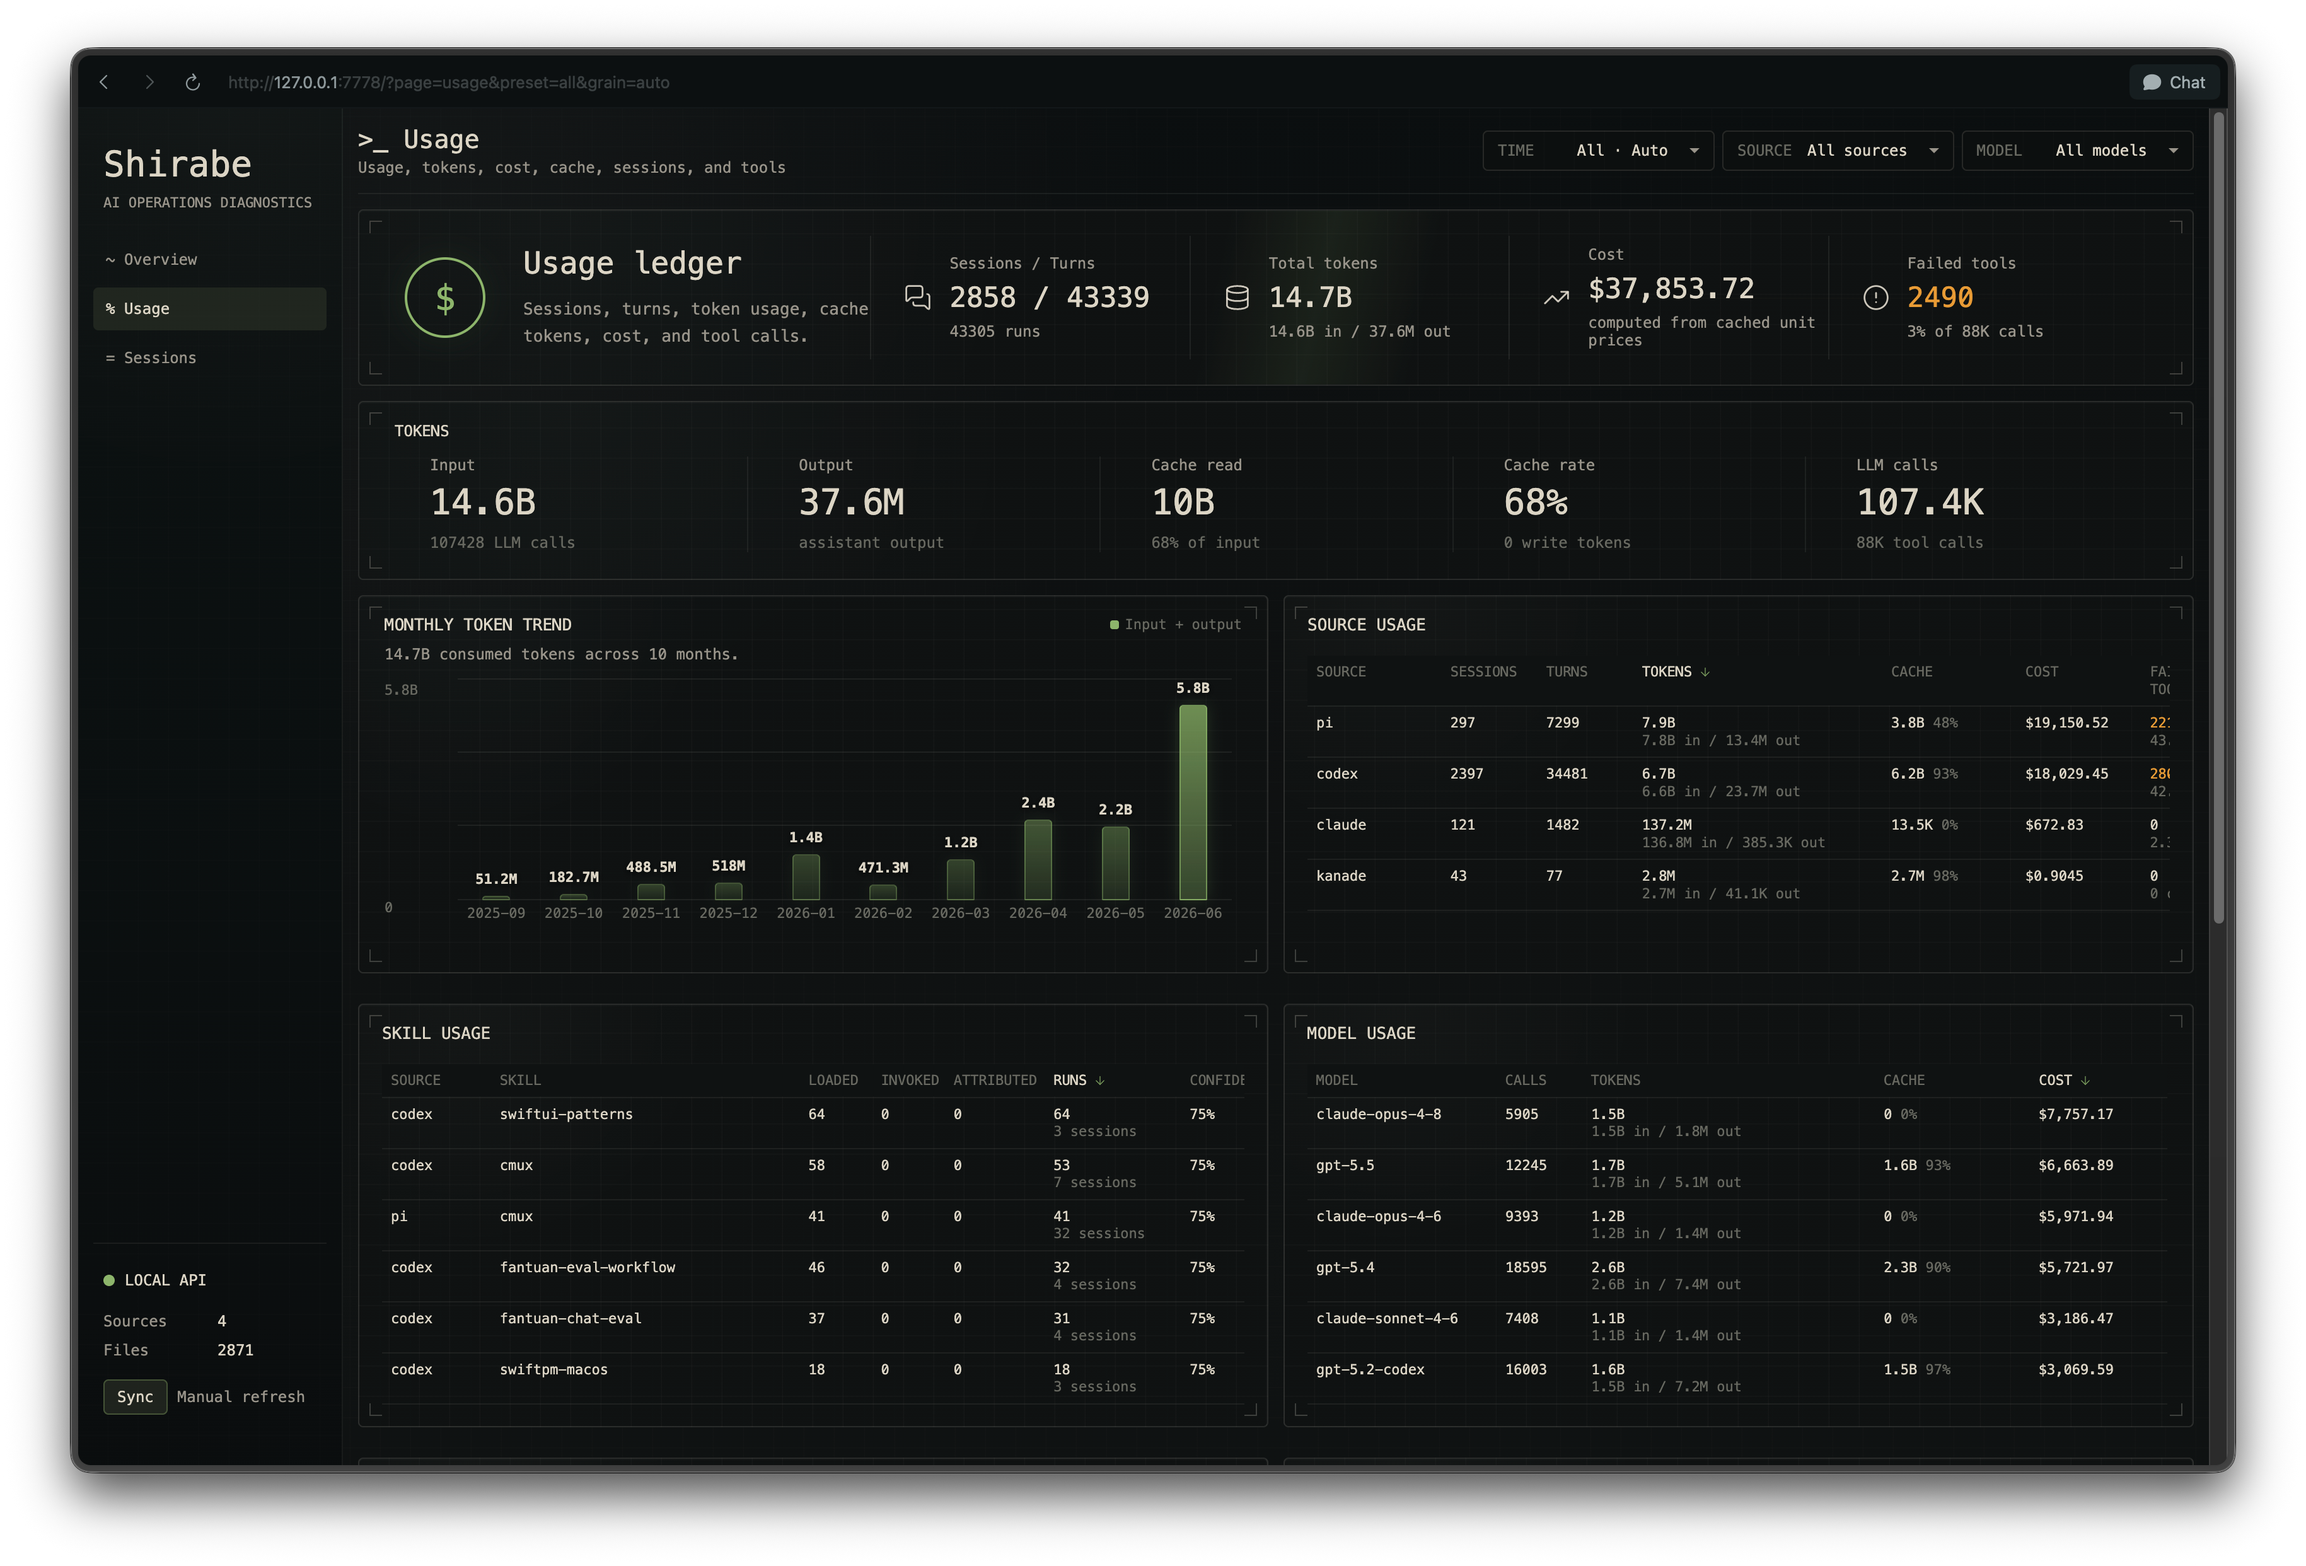
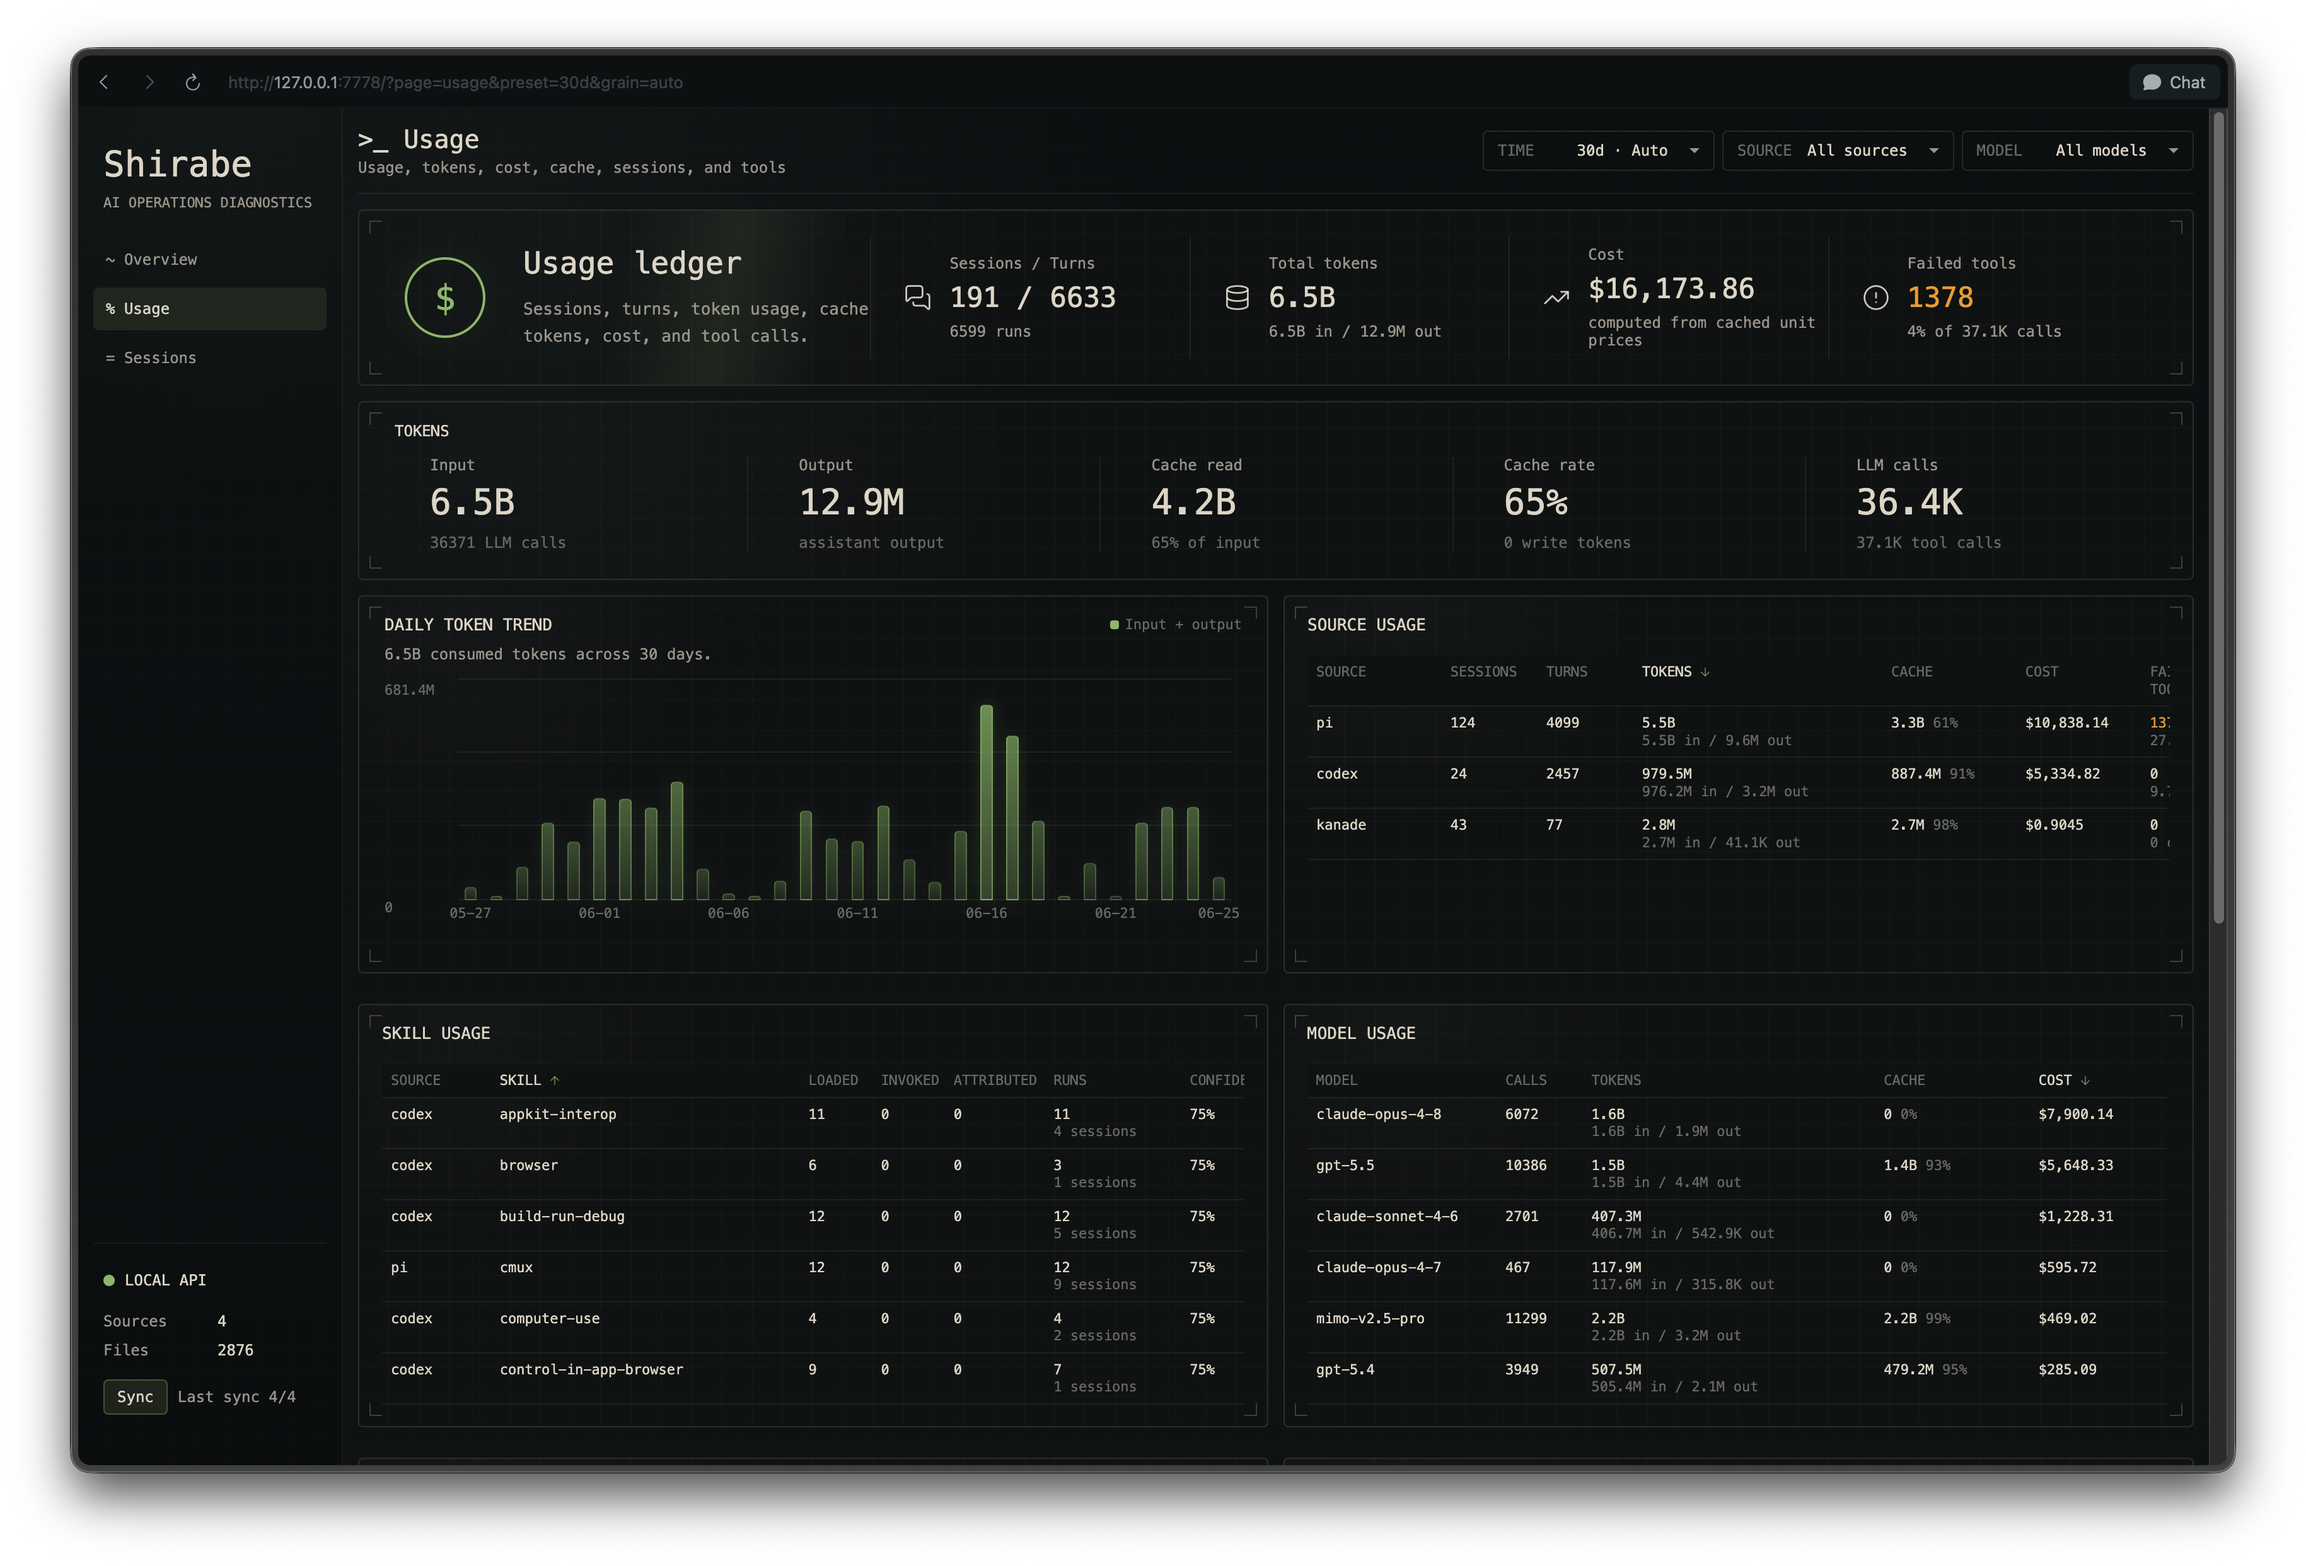
Update README screenshot and fix formatting

diff --git a/src/server.rs b/src/server.rs
@@ -3353,7 +3353,11 @@ fn count(conn: &Connection, table: &str) -> Result<i64> {
 }
 
 fn latest_import_scan_ns(conn: &Connection) -> Result<Option<i64>> {
-    Ok(conn.query_row("SELECT MAX(last_scan_ns) FROM import_sources", [], |row| row.get(0))?)
+    Ok(
+        conn.query_row("SELECT MAX(last_scan_ns) FROM import_sources", [], |row| {
+            row.get(0)
+        })?,
+    )
 }
 
 fn count_where(conn: &Connection, table: &str, predicate: &str) -> Result<i64> {
